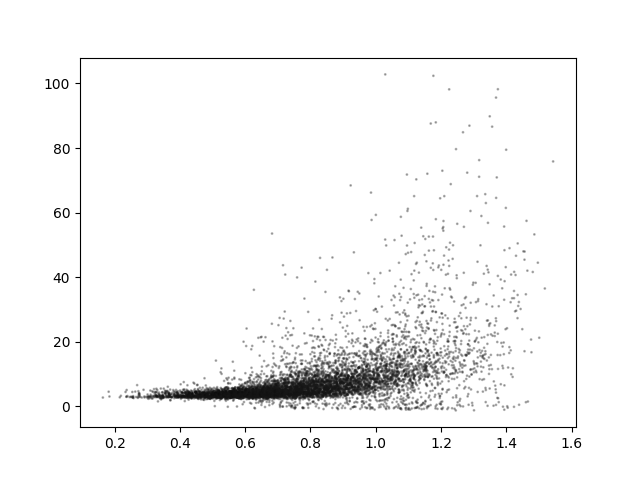
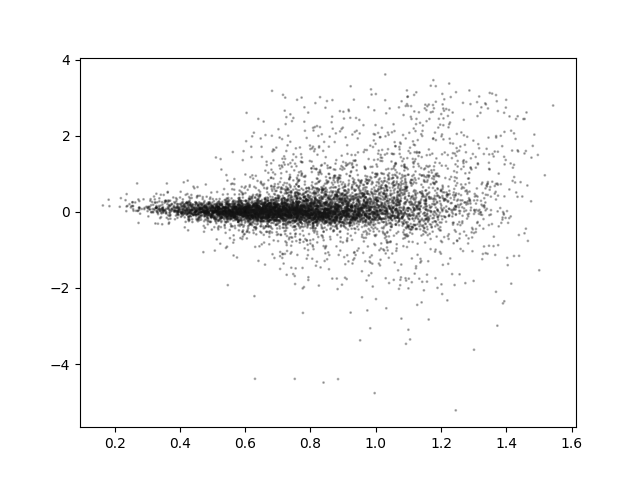
0.1

diff --git a/models.py b/models.py
@@ -226,7 +226,7 @@ class Estimation:
                 '''
                 Gradient of loglikelihood for Log-Normal regression model
                 [1/sigma^2 * (ln y_i - x_i'beta] * x_i
-                -1/2*sigma^2 + (y_i - x_i'beta)^2/2*sigma^4
+                -1/2*sigma^2 + (ln y_i - x_i'beta)^2/2*sigma^4
                 '''
 
                 aux_beta = beta[-1]**(-1) * (np.log(X[:, [0]]) - X[:, 1:] @ beta[:-1])
@@ -239,7 +239,7 @@ class Estimation:
                 '''
                 Inverse of negative Hessian of Log-Normal loglikelihood
                 inv 1/sigma^2 * x_i * x_i'
-                inv -(2*sigma^4)^(-1) + (y_i - x_i'beta)^2/sigma^6
+                inv -(2*sigma^4)^(-1) + (ln y_i - x_i'beta)^2/sigma^6
                 '''
     
                 aux_beta = np.linalg.inv(X[:, 1:].T @ (beta[-1]**(-1) * X[:, 1:]))
@@ -359,7 +359,10 @@ class Estimation:
         if dependent == 'freq':
             self.y_bar = np.sum(X[:, [0]]) / np.sum(X[:, [1]])
         elif dependent == 'sev':
-            self.y_bar = np.average(X[:, [0]])
+            if model != 'LNormal':
+                self.y_bar = np.average(X[:, [0]])
+            else:
+                self.y_bar = np.average(np.log(X[:, [0]]))
 
     def save_estimation_results(self, keys=None):
         if keys != None:
@@ -534,7 +537,7 @@ class Stdout:
         elif model == 'LNormal':
             def LL_func(X, mu, extra_param):
                 '''
-                loglikelihood: sum_i -ln 2pi/2 -ln sigma^2/2 + (y_i - mu_i)^2/2sigma^2
+                loglikelihood: sum_i -ln 2pi/2 -ln sigma^2/2 + (ln y_i - mu_i)^2/2sigma^2
                 '''
             
                 sigma2 = extra_param
@@ -543,7 +546,7 @@ class Stdout:
 
             def deviance(X, mu, extra_param, y_bar):
                 '''
-                deviance^2 = (y_i - mu_i)^2
+                deviance^2 = (ln y_i - mu_i)^2
                 '''
 
                 aux_dev = (np.log(X) - mu)**2
@@ -556,7 +559,7 @@ class Stdout:
                 return (dev_is, dev_local, dev_y_bar_local)
 
             def Pearson(X, mu, extra_param):
-                '''y_i-mu_i'''
+                '''ln y_i - mu_i'''
 
                 Pearson_is = np.log(X) - mu
                 Pearson_local = np.sum(Pearson_is**2)
@@ -659,7 +662,10 @@ class Stdout:
                 if model_type == 'freq':
                     cell_res[i, 1] = np.average(X[:, [0]] * X[:, [1]])
                 elif model_type == 'sev':
-                    cell_res[i, 1] = np.average(X[:, [0]])
+                    if model != 'LNormal':
+                        cell_res[i, 1] = np.average(X)
+                    else:
+                        cell_res[i, 1] = np.average(np.log(X))
             else:
                 ind_res[key] = np.array([])
                 dev_local = 0
@@ -716,7 +722,8 @@ class Stdout:
 
 
 if __name__ == '__main__':
-    for model in ('Logit', 'Probit', 'C-loglog', 'LNormal', 'Gamma', 'InvGaussian', 'Poisson', 'NB2'):
+#    for model in ('Logit', 'Probit', 'C-loglog', 'LNormal', 'Gamma', 'InvGaussian', 'Poisson', 'NB2'):
+    for model in ('LNormal',):
         for claim_type in ('casco', 'rcd'):
 #            x = Estimation(model, claim_type)
 #            x.save_estimation_results()
